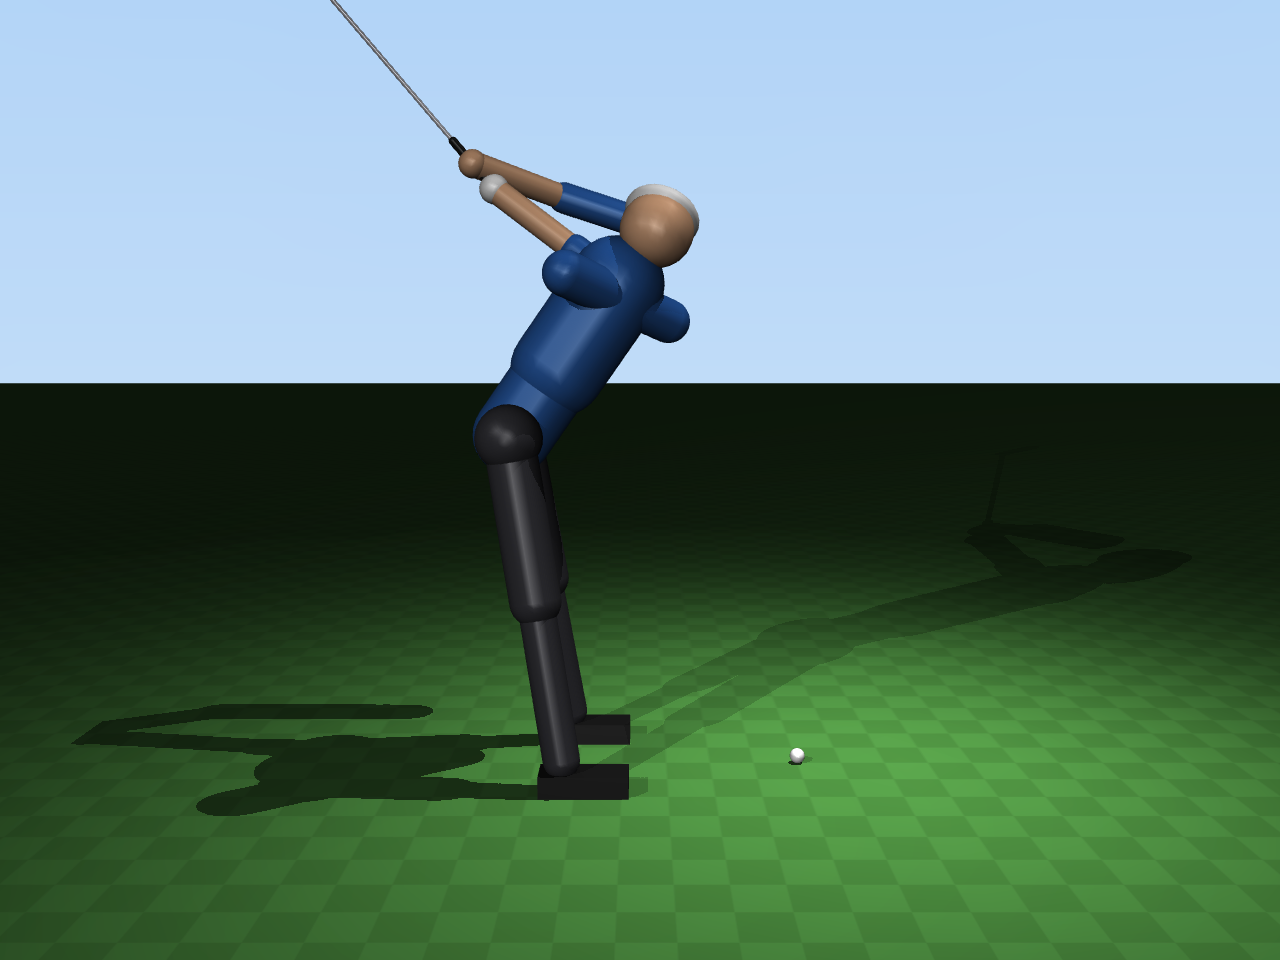
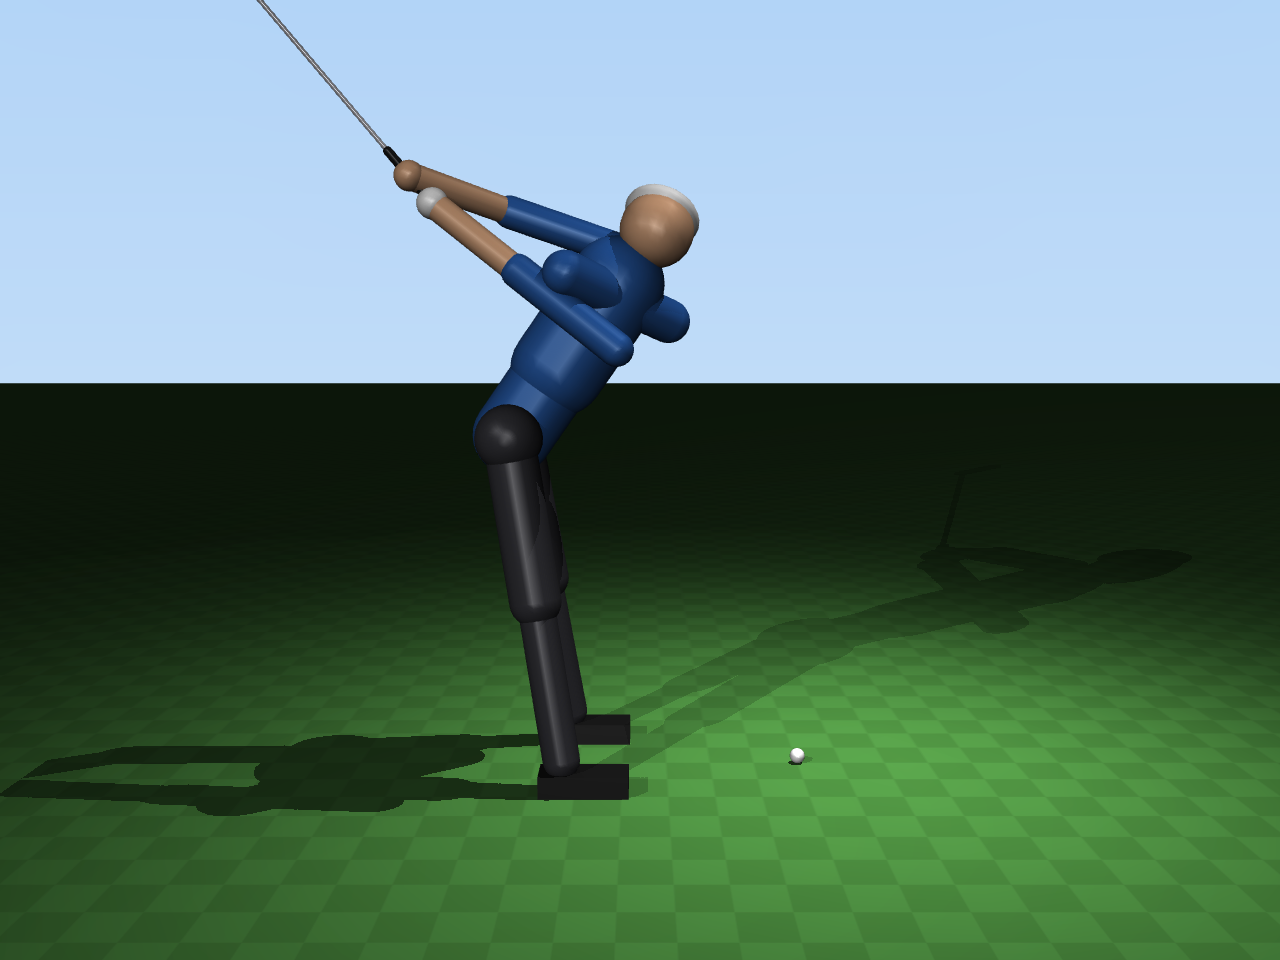
Lab1: eixo dos bracos passa a rodar no centro do peito
O braco direito descolava do tronco no meio do swing porque o eixo do ombro
passava pelo ombro ESQUERDO e os dois bracos sao um corpo rigido. Passa a rodar
em torno do centro do peito (entre os ombros), que e tambem como o triangulo dos
bracos roda num swing real. As coordenadas dos geoms dos bracos e do taco foram
deslocadas do mesmo vetor, por isso a pose de enderecio fica identica (cabeca do
taco no mesmo sitio, loft 32 graus).

Efeito na fisica, alem do visual: I_shoulder 2.43 -> 1.78 kg.m2 (-27 %), o que
levanta o constrangimento que limitava a velocidade. Downswing passa de 0.46 s
para 0.38 s sem saturar:
  v cabeca  23.1 -> 26.9 m/s
  v bola    27.0 -> 35.3 m/s (smash 1.31, real ~1.25-1.33)
  carry     68.5 -> 115.4 m

diff --git a/Lab1/src/swing.py b/Lab1/src/swing.py
@@ -59,12 +59,12 @@ DEFAULTS = dict(
     q_top_shoulder=-135.0,  # ângulo braços+taco no topo [deg]
     t_back=0.75,            # duração do backswing [s]
     t_pause=0.05,           # pausa no topo [s]
-    t_down=0.46,            # topo -> impacto [s]
+    t_down=0.38,            # topo -> impacto [s]
     t_sim=6.0,              # duração total simulada [s] (até a bola parar)
     kp=900.0,               # ganhos do PD (rad/s^2 por rad, e por rad/s)
     kd=60.0,
 )
-# Nota: t_down = 0.46 s é mais lento que o downswing real (0.25-0.30 s). Não é
+# Nota: t_down = 0.38 s é mais lento que o downswing real (0.25-0.30 s). Não é
 # escolha estética: com os binários declarados no XML (±150/±100 N·m) um
 # downswing mais rápido satura o motor do ombro, a trajetória deixa de ser
 # seguida e o taco passa ao lado da bola. Ver report/simplificacoes.md.
